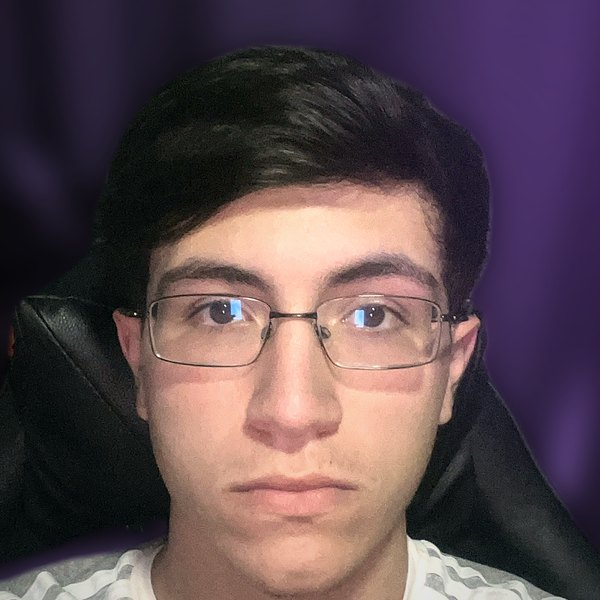
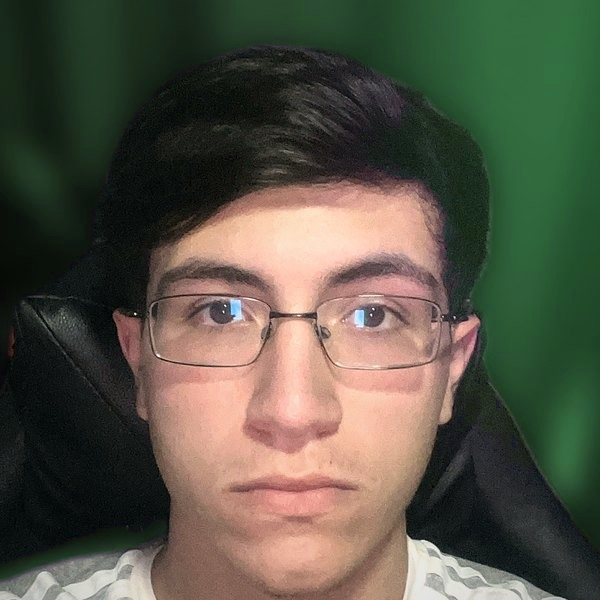
Fundo da foto em verde e cache-busting de CSS/JS/foto para a nova paleta
Claude-Session: https://claude.ai/code/session_01GS8k1eHewaWArc3Y3YA6Cn

Changed region(s): [[0.36, 0.0, 1.0, 0.84], [0.12, 0.0, 0.21, 0.18], [0.03, 0.93, 0.06, 0.96]]

diff --git a/index.html b/index.html
@@ -22,7 +22,7 @@
   <link rel="preconnect" href="https://fonts.googleapis.com">
   <link rel="preconnect" href="https://fonts.gstatic.com" crossorigin>
   <link href="https://fonts.googleapis.com/css2?family=Inter:wght@400;500;600&family=JetBrains+Mono:wght@400;600&family=Space+Grotesk:wght@500;600;700&display=swap" rel="stylesheet">
-  <link rel="stylesheet" href="css/style.css">
+  <link rel="stylesheet" href="css/style.css?v=verde">
 </head>
 <body class="is-loading">
 
@@ -120,7 +120,7 @@
 
           <div class="hero-photo" data-cursor="Olá!">
             <div class="photo-frame">
-              <img src="assets/img/foto.jpg" alt="Foto de Matheus Henrique"
+              <img src="assets/img/foto.jpg?v=verde" alt="Foto de Matheus Henrique"
                    onerror="this.remove()">
               <span class="photo-fallback" aria-hidden="true">MH</span>
             </div>
@@ -354,6 +354,6 @@
   <script src="https://cdn.jsdelivr.net/npm/gsap@3.13.0/dist/SplitText.min.js"></script>
   <script src="https://cdn.jsdelivr.net/npm/gsap@3.13.0/dist/ScrambleTextPlugin.min.js"></script>
   <script src="https://cdn.jsdelivr.net/npm/gsap@3.13.0/dist/TextPlugin.min.js"></script>
-  <script src="js/main.js"></script>
+  <script src="js/main.js?v=verde"></script>
 </body>
 </html>
